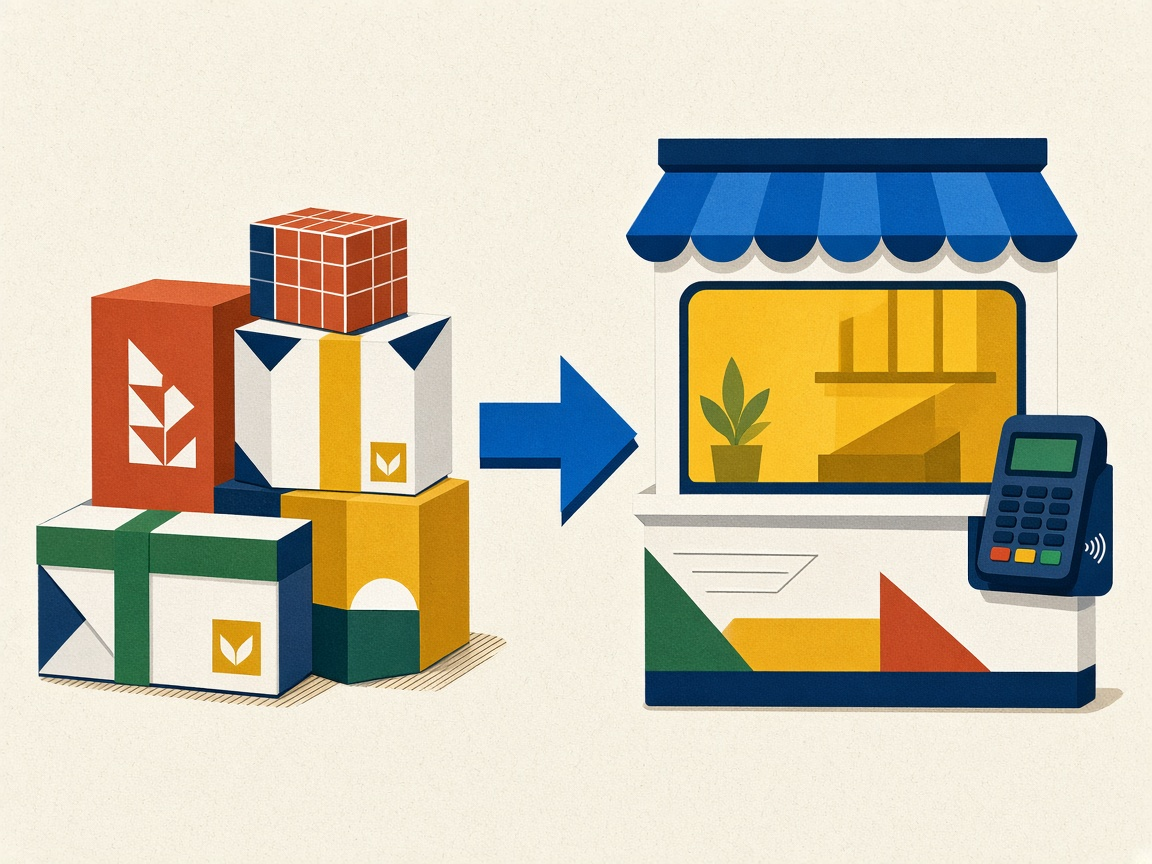
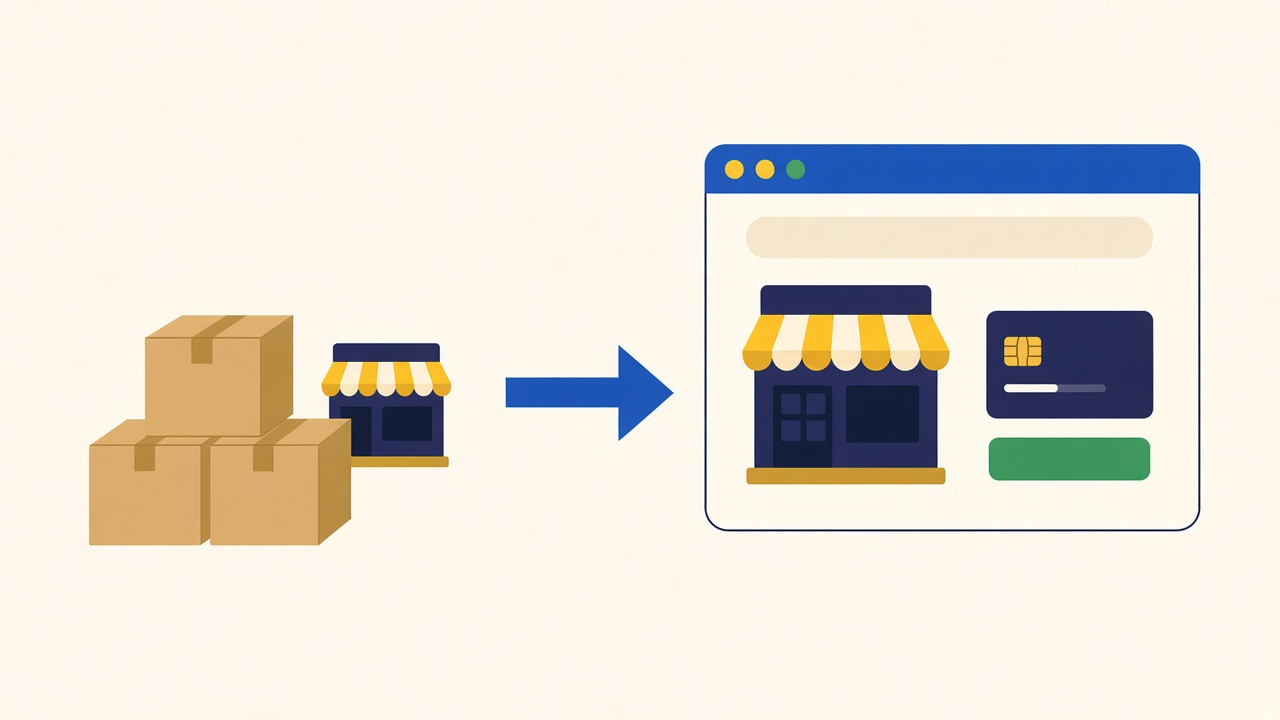
Open the product page on the features, and redraw the three plates.

diff --git a/company-os/governance/decision-log.md b/company-os/governance/decision-log.md
@@ -4,6 +4,7 @@ One line per decision that changes direction. Newest on top.
 
 | Date | Decision | Options considered | Chosen | Why | Owner | Revisit |
 |---|---|---|---|---|---|---|
+| 26 Sep 2026 | The public Product page opens on the title and the four-column catalogue, not on a place photograph. The three process chapters put the numbered steps on the left and the plate on the right. The plates are redrawn: rails without coins or temple icons; enable as stock to browser with card capture on the page; settle as plain gold discs and a strapped book, without poker chips or corner ornaments. Other reading pages keep the place photograph. | Keep the city carousel on Product; keep the old plates | Lead layout and new plates | He asked for a heavy UX pass aligned to a studied platform page, with gov.br restraint and online-store clarity in the enable plate | André Silva | When the product page needs a fourth chapter |
 | 25 Sep 2026 | Ecosystem leaves the offer. It does not name the product, the signup or the direct connection. It means the sum of every country in Latin America and Central America. That use is not barred. The texture list no longer contains the word. The home title stays "Enter Latin America like a local." The line under it is gone. | Keep the word as the name of the offer; keep it on the texture list | The geographic meaning, and nowhere else on the home | He said that context was wrong, and that he had not meant the word to sound like a machine | André Silva | When a page needs to name the whole set of countries |
 | 25 Sep 2026 | The second point is local signup, not local approval. We gather the client's data, deliver it to the local partners, and help with the licences, the regulations and the requirements of regulated institutions, so the approval has a better chance. The third point is direct connection. The client does not meet each requirement alone. It uses the volume of our local commercial policy and enters the competitive market. The same claims in Portuguese. Recorded in the kit, the glossary and the public pages. | Keep "the local acquirer gives the approval" and "local rules" | Local signup, then direct connection | He named both points and said to write them through | André Silva | When local merchants have their own page |
 | 25 Sep 2026 | The second fold goes to production. The live page was still the paragraph and the one-step carousel. The fold is an open row: a gold rule, a number, a title, one sentence. The four drawings sit in that same row. The refusal keeps the urucum bar. The page does not name the sites that were studied. | Leave the carousel live; copy a feature catalogue | Publish the open row | He asked the live page to stand above those sections | André Silva | When the next reading page is rewritten |
